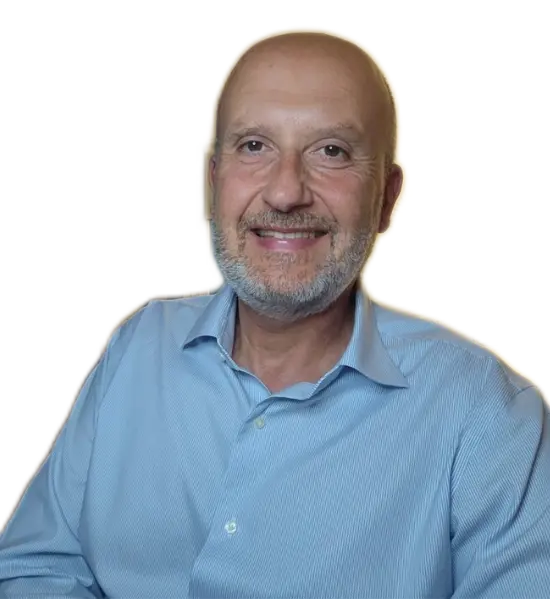
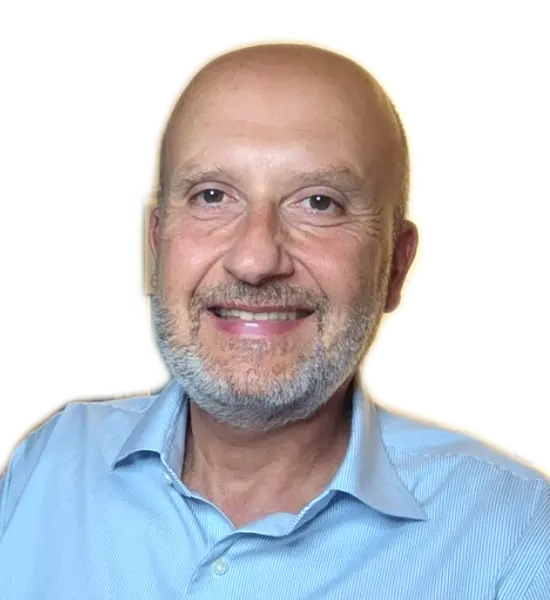
new profile images added

diff --git a/dist/tdr-app-v2-en/consulting.html b/dist/tdr-app-v2-en/consulting.html
@@ -551,14 +551,14 @@
           </a>
         </div><!-- #logo end -->
         <!-- Optional Text Panel -->
-        <div class="textPanel"><a
+        <!-- <div class="textPanel"><a
             href="https://blog.tradedutyrefund.com/trade-duty-refund-sponsors-aaei25-washington/?utm_source=Website&utm_medium=HeaderBanner&utm_campaign=AAEI"
             class="fw-bold text-white">#AAEI25 Proud Sponsor <i class="bi-arrow-right-square"></i></a></div>
         <div class="primary-menu-trigger">
           <button class="cnvs-hamburger" type="button" title="Open Mobile Menu">
             <span class="cnvs-hamburger-box"><span class="cnvs-hamburger-inner"></span></span>
           </button>
-        </div>
+        </div> -->
 
         <!-- Primary Navigation
         ============================================= -->
@@ -659,6 +659,11 @@
                 <li class="menu-item">
                   <a class="menu-link" href="about-us.html">
                     <div>About Us</div>
+                  </a>
+                </li>
+                <li class="menu-item">
+                  <a class="menu-link" href="our-team-of-International-trade-experts.html">
+                    <div>Consulting Team</div>
                   </a>
                 </li>
                 <li class="menu-item">

diff --git a/dist/tdr-app-v2-en/jocelyn-montpert.html b/dist/tdr-app-v2-en/jocelyn-montpert.html
@@ -630,7 +630,7 @@
                     <strong>Languages</strong>
                     <p class="interline">Jocelyn is located in France and speaks 2 languages fluently: French and English.</p>
                 </div>
-                <a href="our-team-of-International-trade-experts.html" class="button button-rounded button-green" type="button">Meet The TDR Team</a>
+                <a href="our-team-of-International-trade-experts.html" class="button button-rounded" type="button">Meet The TDR Team</a>
 
             </div>
         </div>
